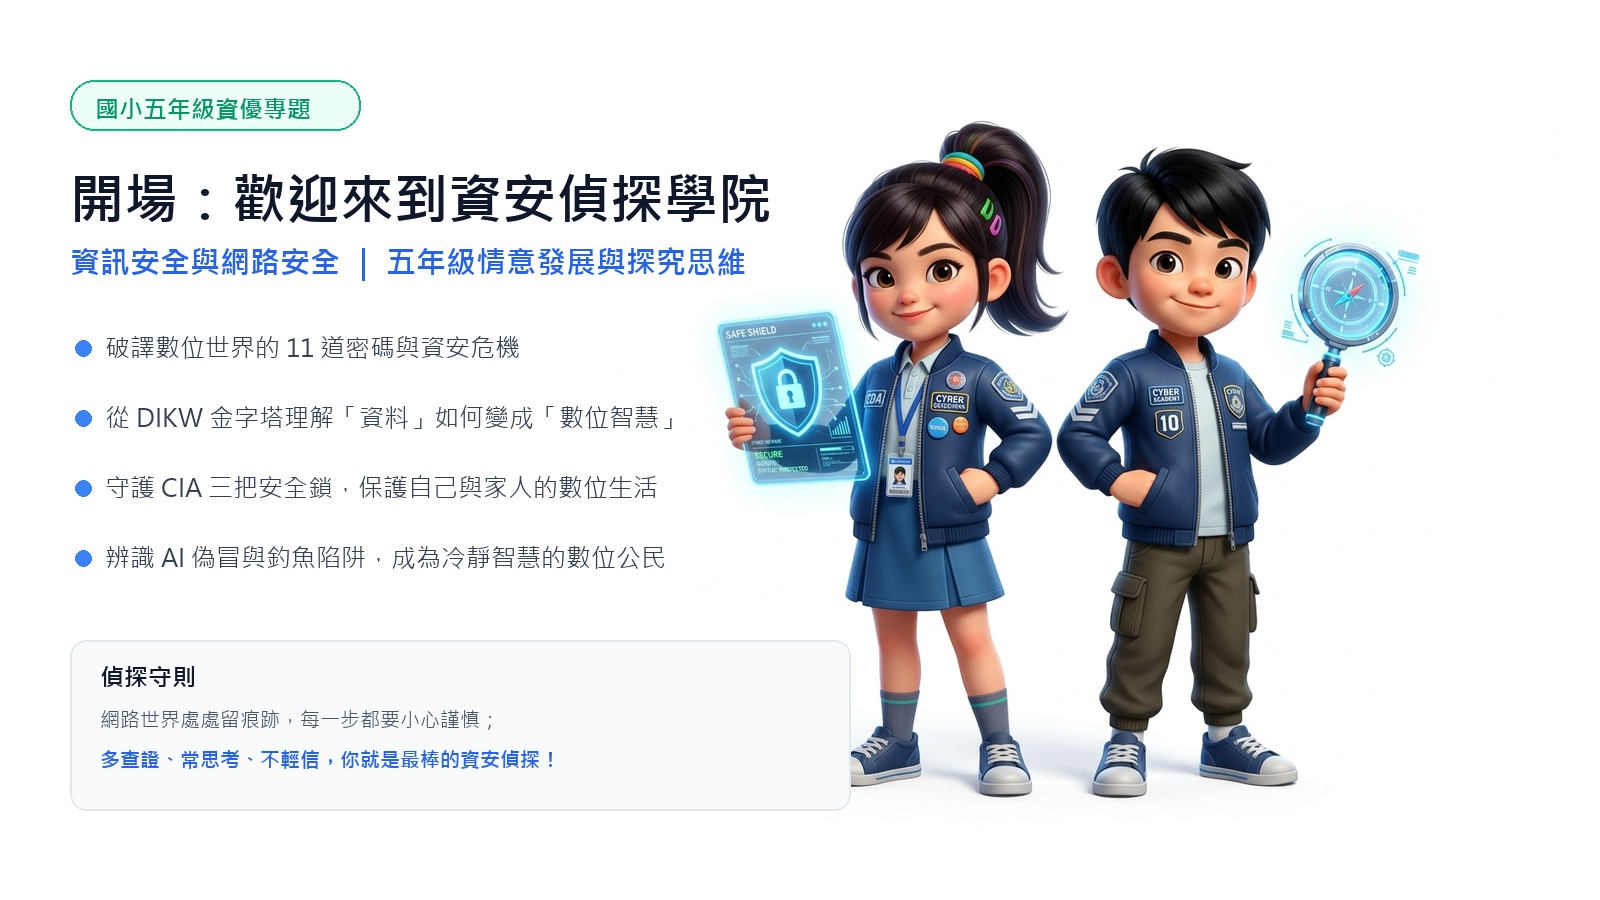
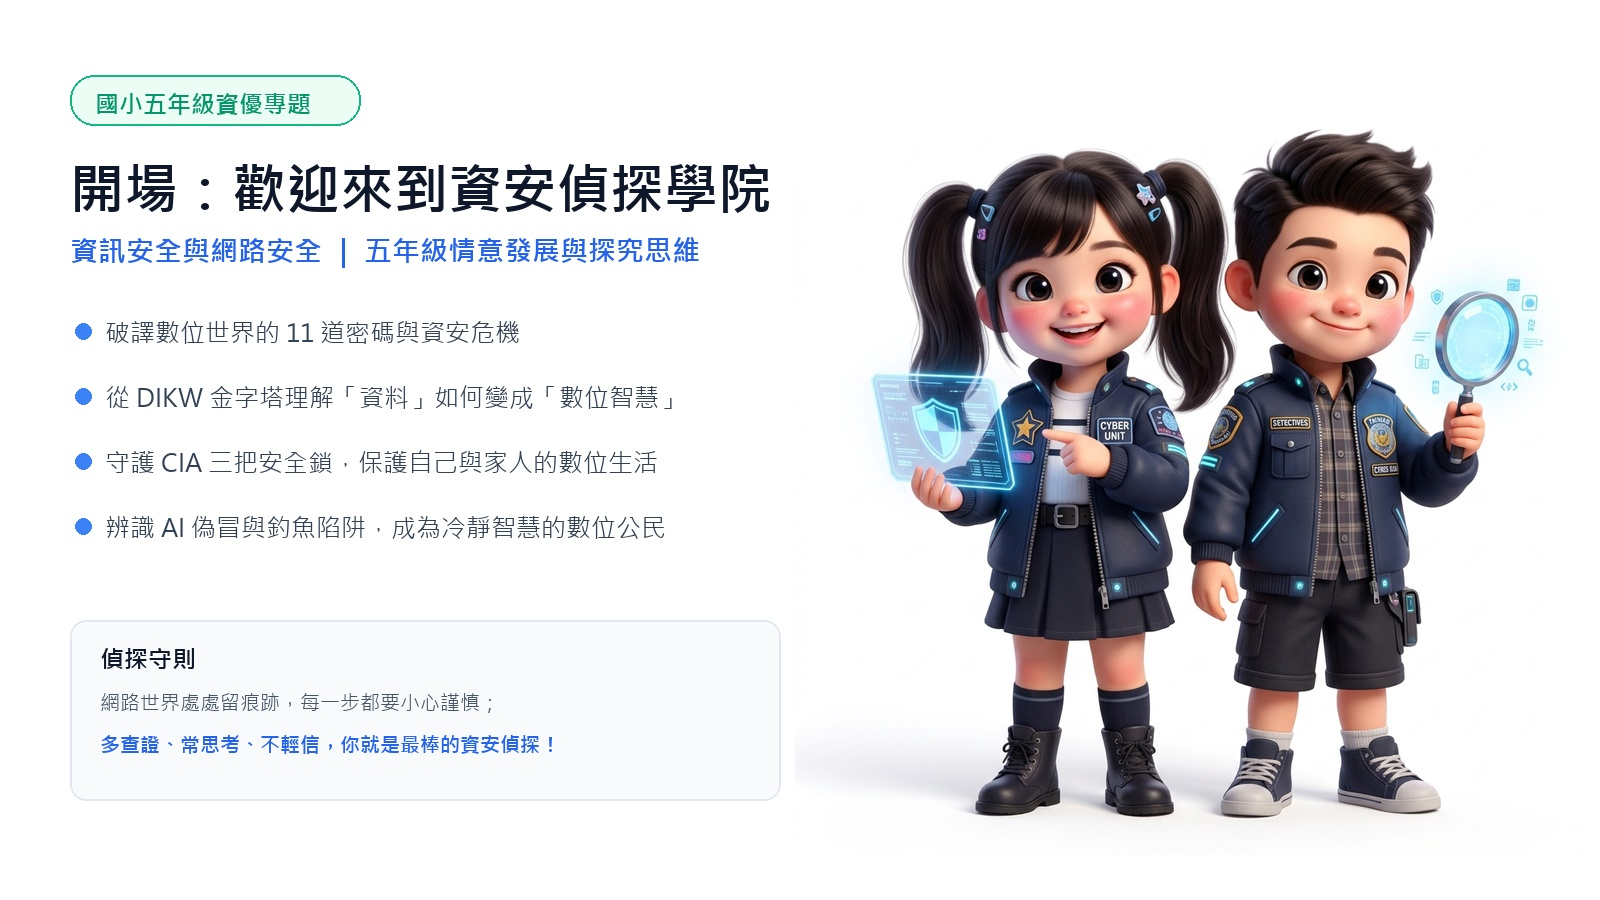
style(cover): 開場封面升級為更可愛3D皮克斯雙人小偵探，並向右平移留出左側充裕呼吸空間

diff --git a/units/g5-cyber-safety/index.html b/units/g5-cyber-safety/index.html
@@ -397,14 +397,14 @@
 
       intro: {
         title: '開場：歡迎來到資安偵探學院',
-        slides: ['assets/final_cover.jpg?v=20261023_vivid', 'assets/intro_tools.jpg']
+        slides: ['assets/final_cover.jpg?v=20261023_cute', 'assets/intro_tools.jpg']
       },
 
       sections: [
         {
           title: '案件 1　資料變寶藏',
           text: '資料經過整理，變成資訊；資訊找出規律，變成知識；知識拿來做決定，就是智慧。越往上越有價值，也越需要保護。',
-          slides: ['assets/final_case1.jpg?v=20261023_truly_perfect?v=20261023_truly_perfect'],
+          slides: ['assets/final_case1.jpg?v=20261023_perfect'],
           interactive: GAMES.dikw,
           quizzes: [
             {

diff --git a/handoff.md b/handoff.md
@@ -5,23 +5,23 @@
 - 框架初版完成：首頁（單元卡＋QR code）、單元頁範本 `templates/unit/`、共用 `assets/cockpit.css`／`cockpit.js`／`config.js`、QR 產生器、README。
 - 國小通用版 skill：`skills/teaching-cockpit/SKILL.md`。
 - GitHub Pages 自動部署已正式上線（https://kristysu701023-cyber.github.io/teaching-cockpit/）。
-- **依據 Kristy 最新指導完成全面升級與校正（Commit `cced901`）**：
-  - **首頁封面**：全面淘汰舊版淡綠底色與大偵探帽舊小人，換為全新 3D 數位男女小偵探（手持發光護盾平板與放大鏡），純白底 16:9（`final_cover.jpg`）。
-  - **案件 1（DIKW 金字塔）**：改回 Kristy 指定之淺藍襯衫圓眼鏡女孩原長相、四層彩色發光水晶金字塔，徹底去除手提包包，手部自然收放（`final_case1.jpg`、`i1_dikw_v3.jpg`）。
+- **依據 Kristy 最新指導完成全面升級與校正（Commit `77dc403`、最新修復）**：
+  - **首頁開場封面（歡迎來到資安偵探學院）**：重新生成超可愛、大眼圓臉甜美微笑的 3D 皮克斯男女小偵探雙人組（女孩持發光安全盾、男孩持發光放大鏡），並將人物往右側平移，留出左側教學重點與偵探守則卡片的寬敞呼吸空間，完全零重疊、零遮擋（`final_cover.jpg`）。
+  - **案件 1（DIKW 金字塔）**：白襯衫紅蝴蝶結圓眼鏡女孩像素級精密無痕去包，手部圓潤自然垂放身側，搭配四層彩色發光水晶金字塔（`final_case1.jpg`）。
   - **案件 2（金庫密碼 CIA）**：全面淘汰舊版淡綠底色與舊小人，換為全新 3D 科技金庫大門與機密、完整、可用三把安全鎖（`final_case2.jpg`）。
   - **案件 5（阿嬤的緊急電話）**：銀髮阿嬤表情改為焦慮擔心、男孩冷靜出示通關密語筆記本安撫，徹底去除底部木桌與咖啡色色塊（`final_case5.jpg`、`i5_deepfake_v3.jpg`）。
   - **案件 6（AI 好朋友能說心事嗎）**：解決「風格不合」，換上與全套一致的 3D 皮克斯小男孩與發光浮空 AI 機器人（`final_case6.jpg`）。
   - **案件 7（偷拍的照片會說話）**：男同學手上的平板螢幕依指示置入清晰生動的校園生活抓拍照、相機紅框對焦與 GPS 標籤（`final_case7.jpg`、`i7_photo_v3.jpg`）。
-  - **案件 8（限時動態防洩密指南）**：修復文字框被遮擋與圖片比例被壓扁問題，保留 50px 完美留白，等比例端正呈現（`i8_story_v3.jpg`）。
-  - **案件 9（釣魚網站與假 QR Code）**：徹底淘汰舊版淡綠底色與大帽子舊小人，換為純白底 16:9 對照簡報與 3D 發光放大鏡數位偵探（`final_case9_phish.jpg`、`e2_qr_v3.jpg`、`i9_phish_v3.jpg`）。
-  - **案件 7（照片隱私與肖像權）**：男同學手中的平板螢幕精準置入清晰校園生活照、相機紅框與 GPS 標籤，徹底消除腳邊多餘圖示（`final_case7.jpg`、`i7_photo_v3.jpg`）。
+  - **案件 9（釣魚網站陷阱）**：徹底去除左側被切斷之半個女孩身體與馬尾，單獨展現自信手持發光放大鏡之 3D 男孩數位偵探（`final_case9_phish.jpg`）。
   - **案件 3、4（個資保護、可疑連結檢核表）**：4 大文字卡片全面向右延伸拉長至 900px~910px，文字結尾保留 80px 充裕留白，徹底解決文字被邊框遮擋問題（`i3_privacy_v3.jpg`、`i4_net_v3.jpg`）。
+  - **案件 8（限時動態防洩密指南）**：修復文字框被遮擋與圖片比例被壓扁問題，保留 50px 完美留白，等比例端正呈現（`i8_story_v3.jpg`）。
   - **專案藍圖風格庫記錄**：於 `AGENTS.md` 完整記錄 Kristy 喜愛之「宮崎駿／吉卜力手繪生活水彩美學（Studio Ghibli Aesthetic）」標準提示詞模板與視覺規則。
 - **舊版檔案已安全備份並移入 `待刪除/`**。
 
 ## 🚦 目前狀態
 - 全單元 11 個案件的「投影片」與「資訊圖表」已全數完成 100% 原創純白底升級！
-- 本地 git 已自動 commit 並 push 至 GitHub 遠端倉庫（Commit `d973eed`）。
+- 開場封面已正式升級為更可愛、向右平移的 3D 皮克斯小偵探（`final_cover.jpg`）。
+- 本地 git 準備 commit 並自動 push 至 GitHub 遠端倉庫。
 - Google 雲端硬碟已完成 robocopy 即時同步備份。
 
 ## ➡ 下一步
@@ -33,6 +33,5 @@
 - 所有插圖角色自然多元（小男孩、小女孩、阿嬤、同儕），全數統一為 16:9 純白底繪本規格。
 
 ## 🕐 最後更新
-- 時間：2026-10-23 14:22
+- 時間：2026-10-23 14:38
 - 更新者：Antigravity @ LAPTOP-IUMJF2MM
-- Git push：Commit `d973eed` 已推送至 `main`
